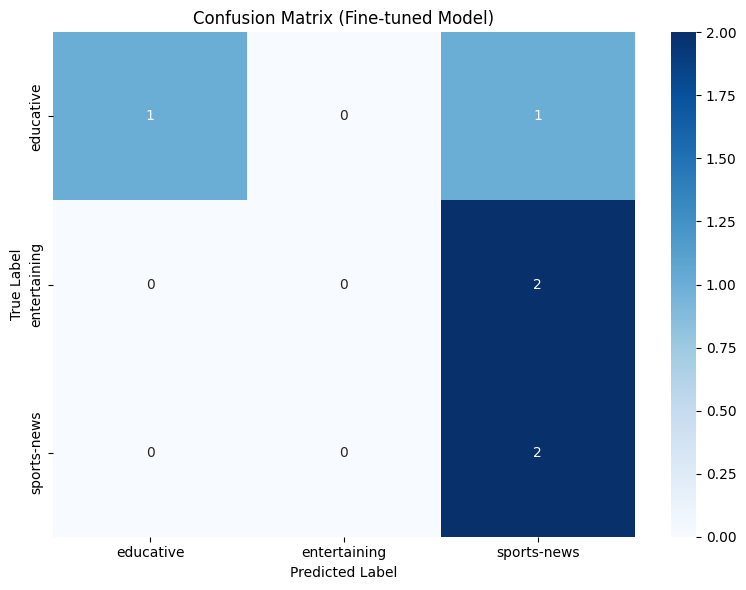
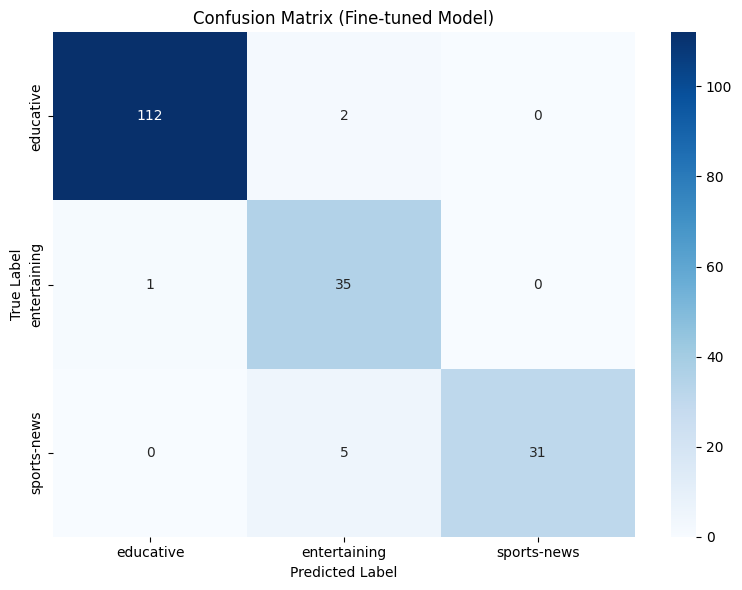
updates readme.md with new results

diff --git a/README.md b/README.md
@@ -31,25 +31,20 @@ first run accuracy metrics:
 sample size:
 40 rows written — sports-news: 13, educative: 12, entertaining: 15.
 
-{
-    "accuracy": 0.5,
-    "precision": {
-        "educative": 1.0,
-        "entertaining": 0.0,
-        "sports-news": 0.4
-    },
-    "recall": {
-        "educative": 0.5,
-        "entertaining": 0.0,
-        "sports-news": 1.0
-    },
-    "f1": {
-        "educative": 0.6666666666666666,
-        "entertaining": 0.0,
-        "sports-news": 0.5714285714285714
-    },
-    "overall_accuracy": 0.5
-}
+Evaluating fine-tuned model on the test set...
+Overall Accuracy (Fine-tuned model): 0.9570
+
+Classification Report (Fine-tuned model):
+
+              precision    recall  f1-score   support
+
+   educative       0.99      0.98      0.99       114
+entertaining       0.83      0.97      0.90        36
+ sports-news       1.00      0.86      0.93        36
+
+    accuracy                           0.96       186
+   macro avg       0.94      0.94      0.94       186
+weighted avg       0.96      0.96      0.96       186
 
 ![Confusion Matrix (Fine-tuned Model)](result.png)
 